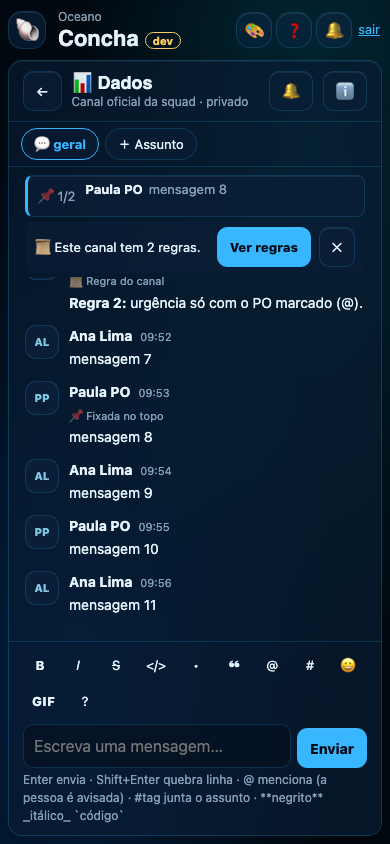
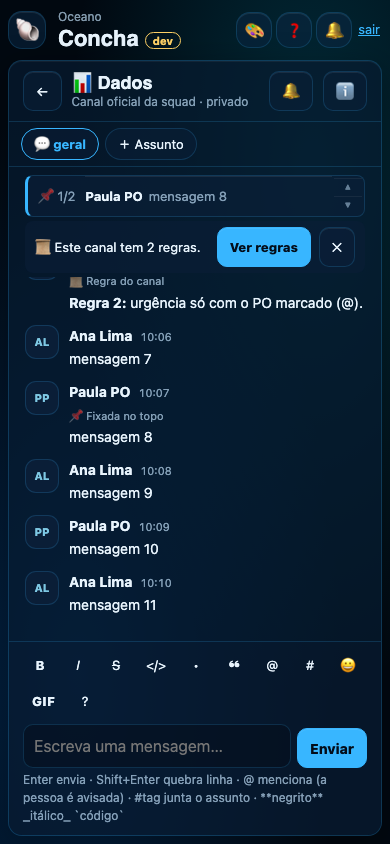
fix(concha): fixadas do topo — setinhas ▲ ▼ discretas no canto, roda do mouse, deslizar o dedo e ↑ ↓ (v0.42)
Achado do Caio: com mais de uma no topo era ruim navegar (só tocando no 📌). Setas só com 2+, troca dá a volta,
texto da faixa centralizado, foco fica no controle usado. Ajuda atualizada. Teste: test_concha_fixar.js (27).
Quadro: deploy dos tipos de fixada confirmado.

Agent: claude

diff --git a/cardume-dev.html b/cardume-dev.html
@@ -267,8 +267,12 @@ textarea{width:100%;min-width:0;min-height:44px;padding:9px 10px;font-size:16px;
 .faixa-fix{display:grid;gap:4px;margin:8px 16px 4px;}
 .fix-topo{display:flex;align-items:stretch;gap:0;border:1px solid var(--glass-b);border-left:3px solid var(--accent);border-radius:8px;background:rgba(var(--slate-rgb),.6);overflow:hidden;}
 .fix-topo button{border:0;border-radius:0;background:transparent;min-height:40px;}
-.fix-topo .fix-ic{padding:4px 10px;font-size:13px;white-space:nowrap;color:var(--txt2);}
-.fix-topo .fix-txt{flex:1;min-width:0;display:flex;gap:6px;align-items:baseline;text-align:left;padding:4px 10px 4px 0;font-size:13px;}
+.fix-topo .fix-ic{display:flex;align-items:center;padding:4px 10px;font-size:13px;white-space:nowrap;color:var(--txt2);}
+.fix-topo .fix-txt{flex:1;min-width:0;display:flex;gap:6px;align-items:center;text-align:left;padding:4px 10px 4px 0;font-size:13px;}
+.fix-topo .fix-nav{display:flex;flex-direction:column;justify-content:center;padding:0 2px;}
+.fix-topo .fix-nav button{min-height:0;min-width:28px;height:18px;padding:0 8px;font-size:8px;line-height:1;color:var(--txt2);opacity:.75;}
+.fix-topo .fix-nav button:hover,.fix-topo .fix-nav button:focus-visible{opacity:1;color:var(--txt);}
+@media (pointer:coarse){.fix-topo .fix-nav button{height:22px;min-width:36px;}}
 .fix-topo .fix-txt b{white-space:nowrap;} .fix-topo .fix-txt span{overflow:hidden;text-overflow:ellipsis;white-space:nowrap;min-width:0;color:var(--txt2);}
 .fix-regras-aviso{display:flex;align-items:center;gap:8px;padding:6px 10px;border-radius:8px;background:rgba(var(--slate-rgb),.6);font-size:13px;}
 .fix-regras-aviso .grow{flex:1;}
@@ -427,7 +431,7 @@ import { initializeApp } from 'https://www.gstatic.com/firebasejs/10.12.0/fireba
 import { getDatabase, ref, get, set, update, push, onValue, onDisconnect, query, orderByChild, orderByValue, equalTo, limitToLast, serverTimestamp } from 'https://www.gstatic.com/firebasejs/10.12.0/firebase-database.js';
 import { getAuth, GoogleAuthProvider, signInWithPopup, signOut, onAuthStateChanged } from 'https://www.gstatic.com/firebasejs/10.12.0/firebase-auth.js';
 
-const VERSION = 'v0.41 · cardume-dev', VERSION_KEY = 'cardume_dev';
+const VERSION = 'v0.42 · cardume-dev', VERSION_KEY = 'cardume_dev';
 const firebaseConfig = {
   apiKey:            localStorage.getItem('fb_apiKeycardume_dev')           || 'AIzaSyBzCOFtPCpaxUcLqX5Sq1GxYL2yAWnDAWU',
   authDomain:        localStorage.getItem('fb_authDomaincardume_dev')       || 'hering-onboarding.firebaseapp.com',
@@ -1145,6 +1149,7 @@ function verRegras() {
   if (window.matchMedia('(max-width: 899px)').matches) $('app').dataset.tela = 'lado';
   renderFaixaFix(); const r = document.querySelector('#lado .regras h3'); if (r) { r.setAttribute('tabindex', '-1'); r.focus(); }
 }
+const fixFoco = sel => { const x = $('faixa-fix').querySelector(sel); if (x) x.focus(); };   // depois de trocar a fixada, o foco fica no mesmo controle
 function renderFaixaFix() {   // a faixa do alto: a fixada do topo (uma por vez) e o aviso de regras
   const f = $('faixa-fix'), id = atual;
   if (!id || vendoMencoes || vendoTag || vendoPessoa || !(souMembro(id) || souAdm())) { f.hidden = true; f.replaceChildren(); return; }
@@ -1154,17 +1159,30 @@ function renderFaixaFix() {   // a faixa do alto: a fixada do topo (uma por vez)
     if (fixIdx >= topo.length) fixIdx = 0;
     const k = topo[fixIdx], m = msgFixada(k), pronta = m && m !== '…';
     const w = el('div', 'fix-topo'); w.setAttribute('role', 'region'); w.setAttribute('aria-label', 'Mensagens fixadas no topo');
-    const ic = el('button', 'fix-ic', '📌' + (topo.length > 1 ? ' ' + (fixIdx + 1) + '/' + topo.length : '')); ic.type = 'button';
-    ic.setAttribute('aria-label', topo.length > 1 ? 'Próxima fixada (' + (fixIdx + 1) + ' de ' + topo.length + ')' : 'Mensagem fixada');
-    ic.title = topo.length > 1 ? 'Ver a próxima fixada' : 'Fixada no topo';
-    ic.onclick = () => { if (topo.length > 1) { fixIdx = (fixIdx + 1) % topo.length; renderFaixaFix(); const n = $('faixa-fix').querySelector('.fix-ic'); if (n) n.focus(); } else ir.click(); };
+    const passo = d => { fixIdx = (fixIdx + d + topo.length) % topo.length; renderFaixaFix(); };
+    const ic = el('span', 'fix-ic', '📌' + (topo.length > 1 ? ' ' + (fixIdx + 1) + '/' + topo.length : '')); ic.setAttribute('aria-hidden', 'true');
     const ir = el('button', 'fix-txt'); ir.type = 'button';
     const quem = pronta ? nomePessoa(autorDe(m)) : '';
     if (quem) ir.append(el('b', '', quem));
     ir.append(el('span', '', pronta ? resumoMsg(m) : '…'));
-    ir.setAttribute('aria-label', 'Ir para a mensagem fixada' + (quem ? ' de ' + quem : ''));
+    ir.setAttribute('aria-label', 'Ir para a mensagem fixada' + (topo.length > 1 ? ' ' + (fixIdx + 1) + ' de ' + topo.length : '') + (quem ? ', de ' + quem : ''));
     ir.onclick = () => abrirNaMensagem(id, k);
-    w.append(ic, ir); f.append(w);
+    w.append(ic, ir);
+    if (topo.length > 1) {   // ▲ ▼ discretas no canto; roda do mouse, deslizar o dedo e ↑ ↓ também trocam
+      const nav = el('div', 'fix-nav');
+      const sobe = el('button', '', '▲'), desce = el('button', '', '▼');
+      sobe.type = desce.type = 'button';
+      sobe.setAttribute('aria-label', 'Fixada anterior'); sobe.title = 'Anterior'; desce.setAttribute('aria-label', 'Próxima fixada'); desce.title = 'Próxima';
+      sobe.onclick = () => { passo(-1); fixFoco('[aria-label="Fixada anterior"]'); }; desce.onclick = () => { passo(1); fixFoco('[aria-label="Próxima fixada"]'); };
+      nav.append(sobe, desce); w.append(nav);
+      let rodaT = 0;
+      w.addEventListener('wheel', e => { if (Math.abs(e.deltaY) < 4) return; e.preventDefault(); const ag = Date.now(); if (ag - rodaT < 350) return; rodaT = ag; passo(e.deltaY > 0 ? 1 : -1); }, { passive: false });
+      let y0 = null;
+      w.addEventListener('touchstart', e => { y0 = e.touches[0].clientY; }, { passive: true });
+      w.addEventListener('touchend', e => { if (y0 === null) return; const dy = e.changedTouches[0].clientY - y0; y0 = null; if (Math.abs(dy) > 24) passo(dy < 0 ? 1 : -1); }, { passive: true });
+      w.addEventListener('keydown', e => { if (e.key === 'ArrowDown' || e.key === 'ArrowUp') { e.preventDefault(); const sel = document.activeElement && document.activeElement.classList.contains('fix-txt') ? '.fix-txt' : null; passo(e.key === 'ArrowDown' ? 1 : -1); if (sel) fixFoco(sel); } });
+    }
+    f.append(w);
   }
   if (novas) {
     const a = el('div', 'fix-regras-aviso'); a.setAttribute('role', 'status');
@@ -1845,7 +1863,7 @@ const AJUDA = [
   { id: 'assuntos', ic: '🧵', t: 'Assuntos dentro do canal', txt: 'Para a conversa de um tema não se misturar com o resto, como os tópicos do Zulip.\n- A faixa abaixo do topo tem **💬 geral** (a conversa normal) e os **assuntos** do canal. **＋ Assunto** (no fim da faixa) cria um, com nome e emoji; qualquer pessoa do canal escreve nele.\n- Trocar de assunto troca a conversa, o rascunho e o lugar onde a mensagem vai (o campo mostra "Em 🧵 …", com o emoji do assunto).\n- Cada assunto mostra um **ponto** quando tem novas. O canal acende por geral, pelos assuntos que você já abriu e pelos que você segue. **✓ Marcar como lido** zera o canal.\n- **⚙** do assunto: os avisos dele (veja "Avisos") e, para quem criou e quem administra o canal, **renomear**, trocar o **emoji**, **🔒 Encerrar** (vira só leitura: ninguém escreve, edita nem reage) e **🔓 Reabrir**. Encerrados ficam em "Encerrados (N)".\n- Se geral parecer curta porque os assuntos estão movimentados, use **Ver mais de geral**.' },
   { id: 'avisos', ic: '🔔', t: 'Avisos e push', txt: 'Por padrão, **toda mensagem nova avisa**, como no WhatsApp.\n- **🔔 no topo da conversa** (por canal): 🔔 Todas · 🔕 Só @menções e #tags que sigo · 🚫 Nada (nem menção), por 8 horas, 1 semana ou sempre. A lista mostra 🔕/🚫.\n- **Por assunto** (⚙ do assunto): **Como o canal**, **🔔 Seguir** (avisa tudo dele, mesmo com o canal em 🔕) ou **🔕 Silenciar** (só @menções e #tags que você segue).\n- Não chega push: enquanto você está com a conversa aberta e usando (janela em foco), no **Não Perturbe**, e de várias mensagens seguidas do mesmo canal (um aviso a cada 2 min). O push diz quem, o canal e o assunto, nunca o texto; em canal só de convidados, nem o nome.\n- Para receber no aparelho: **Sino › Ativar notificações neste aparelho** (vale também para o Maré e o Radar).' },
   { id: 'mensagem', ic: '💬', t: 'Responder, reagir, editar e apagar', txt: 'Passe o mouse na mensagem (no celular, toque nela) para ver as ações:\n- **↩ Responder**: a resposta mostra a mensagem original; quem foi respondido é avisado.\n- **😀 Reagir** com 👍 👀 ❤ ✅ 🎉 (uma por pessoa; tocar na sua tira). Até 3 pessoas, os nomes aparecem no chip; com mais, toque no chip para ver todo mundo e **Reagir também**.\n- **✏ Editar** a sua mensagem nos primeiros **15 minutos** depois de enviar, como no WhatsApp (aparece "(editada)"). Depois disso, só apagar.\n- **🗑 Apagar**: some na hora e dá **5 segundos para Desfazer**. Fica "mensagem apagada" no lugar.\n- **⏩ Encaminhar** para outro canal seu: vai para o 💬 geral de lá com "Encaminhada de *quem escreveu* · # canal de origem". Se no destino houver gente que não está na origem (ou ele for aberto a toda a Hering), a Concha **avisa antes**. A encaminhada não se edita e não pode ser encaminhada de novo; as @menções do texto não avisam outra vez.' },
-  { id: 'fixadas', ic: '📌', t: 'Fixadas no topo e regras do canal', txt: '- Quem **administra o canal** (ADM, PO/Organizador da squad no canal da squad; dona e admins no temático) fixa uma mensagem em **📌 Fixar**, nas ações dela, e escolhe o tipo:\n- **📌 No topo do canal**: aparece numa **faixa no alto da conversa**, como no WhatsApp. Até ' + MAX_FIX.topo + '; com mais de uma, toque no 📌 (1/3, 2/3…) para passar para a próxima. Tocar no texto leva até a mensagem.\n- **📜 Regra do canal**: fica em **ℹ Detalhes › 📜 Regras do canal**, com o texto inteiro (até ' + MAX_FIX.regra + '). Na 1ª vez que alguém abre o canal (ou quando entra uma regra nova), aparece o aviso **Este canal tem regras · Ver regras**.\n- Para **mover** entre topo e regras ou **desafixar**: 📌 Fixada, nas ações da mensagem, ou ℹ Detalhes. Apagar a mensagem tira ela das fixadas.\n- Mensagem fixada fica de fora da limpeza das antigas.' },
+  { id: 'fixadas', ic: '📌', t: 'Fixadas no topo e regras do canal', txt: '- Quem **administra o canal** (ADM, PO/Organizador da squad no canal da squad; dona e admins no temático) fixa uma mensagem em **📌 Fixar**, nas ações dela, e escolhe o tipo:\n- **📌 No topo do canal**: aparece numa **faixa no alto da conversa**, como no WhatsApp. Até ' + MAX_FIX.topo + ', uma por vez (📌 1/3, 2/3…): para trocar, use as setinhas **▲ ▼** no canto, **role a roda do mouse** sobre a faixa, **deslize o dedo** para cima ou para baixo no celular, ou **↑ ↓** no teclado. Tocar no texto leva até a mensagem.\n- **📜 Regra do canal**: fica em **ℹ Detalhes › 📜 Regras do canal**, com o texto inteiro (até ' + MAX_FIX.regra + '). Na 1ª vez que alguém abre o canal (ou quando entra uma regra nova), aparece o aviso **Este canal tem regras · Ver regras**.\n- Para **mover** entre topo e regras ou **desafixar**: 📌 Fixada, nas ações da mensagem, ou ℹ Detalhes. Apagar a mensagem tira ela das fixadas.\n- Mensagem fixada fica de fora da limpeza das antigas.' },
   { id: 'card', ic: '📝', t: 'Registrar a conversa num card do Maré', txt: '- **📝 No card** (nas ações da mensagem): marque até 20 mensagens, escolha o card (os citados na conversa aparecem primeiro) ou cole o link dele, e confira como vai ficar.\n- Vai como **comentário** no card, com o nome de quem escreveu cada mensagem. As `@` viram só o nome (ninguém é mencionado no card).\n- Atenção: o card é lido pela Hering toda e o comentário fica lá, mesmo depois que a mensagem some da Concha.' },
   { id: 'tema', ic: '🎨', t: 'Tema (claro, escuro e Vice City)', txt: '- **🎨** no alto da Concha escolhe o tema: **🌊 Como no Oceano** (o padrão, segue o que você escolheu no Oceano), **🌙 Abrolhos** (escuro), **☀ Lençóis** (claro), **🌅 Entardecer** ou **🌴 Vice City**.\n- A escolha vale só para a Concha, neste aparelho, e muda na hora (também nas outras abas da Concha).' },
   { id: 'busca', ic: '🔍', t: 'Buscar (Ctrl/⌘+K)', txt: '- **Ctrl+K** (⌘K no Mac) ou **🔍 Buscar** na lista abre o Sonar, com as abas **Canais**, **#tags**, **Pessoas** e **Ajuda** (teclas 1–4 com a caixa vazia).\n- Começar com `#` busca só #tags. Sem acento funciona (`promocao` acha `#promoção`).\n- Escolher uma **pessoa** mostra os canais em que vocês dois estão.' },

diff --git a/docs/arezzo/testes/test_concha_fixar.js b/docs/arezzo/testes/test_concha_fixar.js
@@ -56,7 +56,7 @@ async function conferirRegras(p, quem) {
   // ── PO da squad (gestora do canal) ──
   { const { ctx, p, errs } = await abre(PAU);
     let f = await faixa(p);
-    t('faixa do topo mostra a fixada de topo FORA das 50 carregadas (escuta própria); a órfã some', !f.hidden && /Decisão: o banner sai na segunda/.test(f.txt) && f.ic === '📌', f);
+    t('faixa do topo mostra a fixada de topo FORA das 50 carregadas (escuta própria); a órfã some; com 1, sem setas', !f.hidden && /Decisão: o banner sai na segunda/.test(f.txt) && f.ic === '📌' && await p.evaluate(() => !document.querySelector('#faixa-fix .fix-nav')), f);
     t('fixada antiga sem tipo vira 📜 regra; aviso "Este canal tem 1 regra"', /Este canal tem 1 regra/.test(f.aviso), f);
     const l = await lado(p);
     t('ℹ Detalhes: 📌 No topo (1/3) e 📜 Regras do canal (1), com o texto inteiro formatado', l && l.hs[0] === '📌 No topo (1/3)' && l.hs[1] === '📜 Regras do canal (1)' && /<(strong|b)>Regra 1:<\/(strong|b)>/.test(l.regras[0]), l);
@@ -66,8 +66,14 @@ async function conferirRegras(p, quem) {
     t('fixar no topo grava {por, em, t: "topo"}', c.fixadas.dados.n54 && c.fixadas.dados.n54.t === 'topo' && c.fixadas.dados.n54.por === 'pau', c.fixadas.dados.n54);
     f = await faixa(p);
     t('com 3 no topo: a faixa mostra a mais nova e "📌 1/3"', f.ic === '📌 1/3' && /mensagem 53/.test(f.txt), f);
-    await p.click('#faixa-fix .fix-ic'); await p.waitForTimeout(150); f = await faixa(p);
-    t('tocar no 📌 passa para a próxima (2/3)', f.ic === '📌 2/3' && /mensagem 54/.test(f.txt), f);
+    await p.click('#faixa-fix [aria-label="Próxima fixada"]'); await p.waitForTimeout(150); f = await faixa(p);
+    t('▾ passa para a próxima (2/3) e o foco fica na seta', f.ic === '📌 2/3' && /mensagem 54/.test(f.txt) && await p.evaluate(() => document.activeElement && document.activeElement.getAttribute('aria-label') === 'Próxima fixada'), f);
+    await p.click('#faixa-fix [aria-label="Fixada anterior"]'); await p.waitForTimeout(150); f = await faixa(p);
+    t('▴ volta (1/3); de 1 para trás dá a volta até a última (3/3)', f.ic === '📌 1/3' && await (async () => { await p.click('#faixa-fix [aria-label="Fixada anterior"]'); await p.waitForTimeout(150); return (await faixa(p)).ic === '📌 3/3'; })(), f);
+    await p.hover('#faixa-fix .fix-txt'); await p.mouse.wheel(0, 120); await p.waitForTimeout(200); f = await faixa(p);
+    t('rolar a roda sobre a faixa passa para a próxima (3/3 → 1/3)', f.ic === '📌 1/3', f);
+    await p.focus('#faixa-fix .fix-txt'); await p.keyboard.press('ArrowDown'); await p.waitForTimeout(150); f = await faixa(p);
+    t('↓ no teclado com o foco na faixa passa para a próxima (2/3), foco no texto', f.ic === '📌 2/3' && await p.evaluate(() => document.activeElement && document.activeElement.classList.contains('fix-txt')), f);
     await p.hover('[data-msg="n52"]'); await p.click('[data-msg="n52"] [aria-label^="Fix"]'); await p.waitForTimeout(150);
     t('topo cheio (3): a opção 📌 fica desligada e diz "Cheio"', await p.evaluate(() => { const b = [...document.querySelectorAll('.md .tipo-fix button')].find(x => /No topo/.test(x.textContent)); return !!b && b.disabled && /Cheio/.test(document.querySelector('.md .tipo-fix').textContent); }), 0);
     await p.click('.md .tipo-fix button:has-text("Regra do canal")'); await p.waitForTimeout(300);

diff --git a/BUGS_E_CORRECOES.md b/BUGS_E_CORRECOES.md
@@ -87,6 +87,10 @@ Antes de alterar código compartilhado, queries do Firebase, fluxos de autentica
 
 ## 🐛 Histórico de Bugs e Correções
 
+### 2026-11-26 · 🐚 Concha: navegar entre as fixadas do topo era ruim — setinhas ▲ ▼ no canto, roda do mouse, deslizar o dedo e ↑ ↓ (SÓ DEV, cardume v0.42)
+
+Achado do Caio (26/11). Com mais de uma fixada no topo, só dava para trocar tocando no 📌 (pouco óbvio). Agora a faixa tem setinhas discretas ▲ ▼ no canto direito (só com 2 ou mais), a roda do mouse sobre a faixa troca (sem rolar a conversa), deslizar o dedo para cima/baixo troca no celular, e ↑ ↓ trocam com o foco na faixa. A troca dá a volta (da 1ª para trás vai à última). O texto da faixa ficou centralizado. Ajuda atualizada. Teste: test_concha_fixar.js (27). Deslizar o dedo não foi testado automaticamente.
+
 ### 2026-11-26 · 🐚 Concha: a tela da #tag não tinha volta — agora ← Voltar para o canal, o assunto e a mensagem de onde se clicou (SÓ DEV, cardume v0.40)
 
 Achado do Caio (26/11). Clicar numa #tag abria a tela da tag, mas não havia como voltar à conversa (no computador só pela lista; no celular só para a lista). Agora o topo da tela da #tag tem ← Voltar para # Canal (ou @ Menções), que reabre o canal no mesmo assunto e destaca a mensagem onde a #tag foi clicada. De #tag para #tag pelo Sonar mantém a volta original. Teste: test_concha_tag_voltar.js (8, em 1280 e 390 px).

diff --git a/docs/QUADRO.md b/docs/QUADRO.md
@@ -52,7 +52,6 @@ Só o Caio roda, depois do resync do clone. O agente que deixa um deploy para tr
 
 | Quem adicionou | O que mudou | Comando | Data |
 |---|---|---|---|
-| Claude | 📌 Concha: tipos de fixada (campo `t` topo/regra e troca de tipo em `kanban/cardume/fixadas`) — **antes do merge** da PR, a partir da branch `claude/concha-fixar-tipos` | `firebase deploy --only database --project hering-onboarding` | 26/11/2026 |
 | Claude | 🛟 Restaurar comentários sem reativar o Agente Ágil e alarmes de ADM também por `adm_emails` (#1874) | `firebase deploy --only functions:backupCompletoApi,functions:backupVigia,functions:vtexStatus,functions:githubStatus,functions:firebaseStatus --project hering-onboarding` | 19/11/2026 |
 
 ## Backlog
